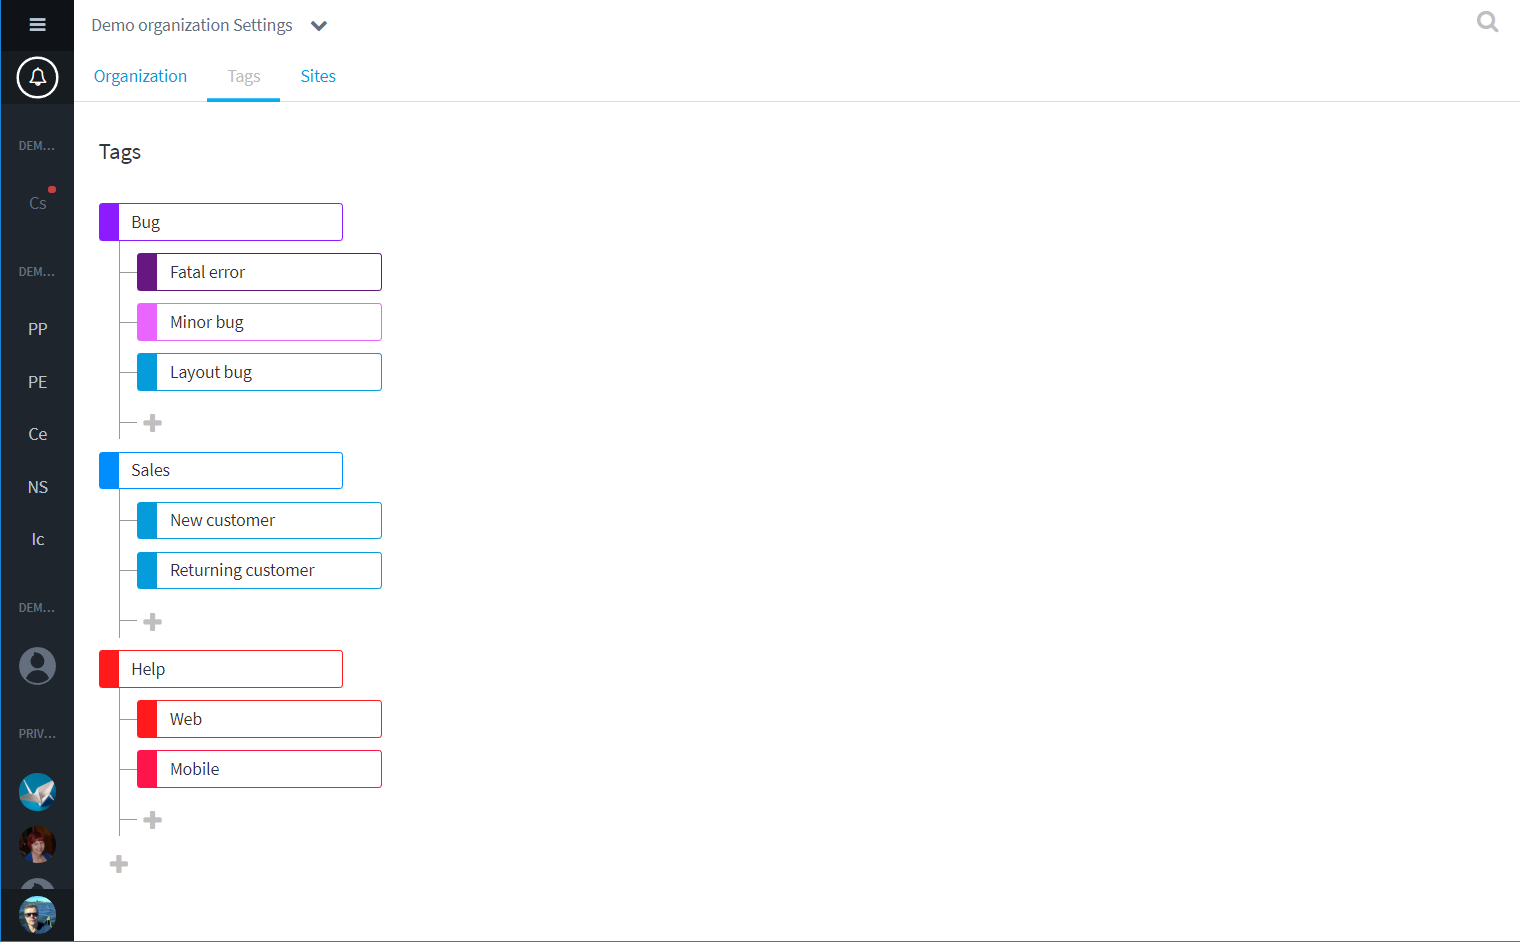
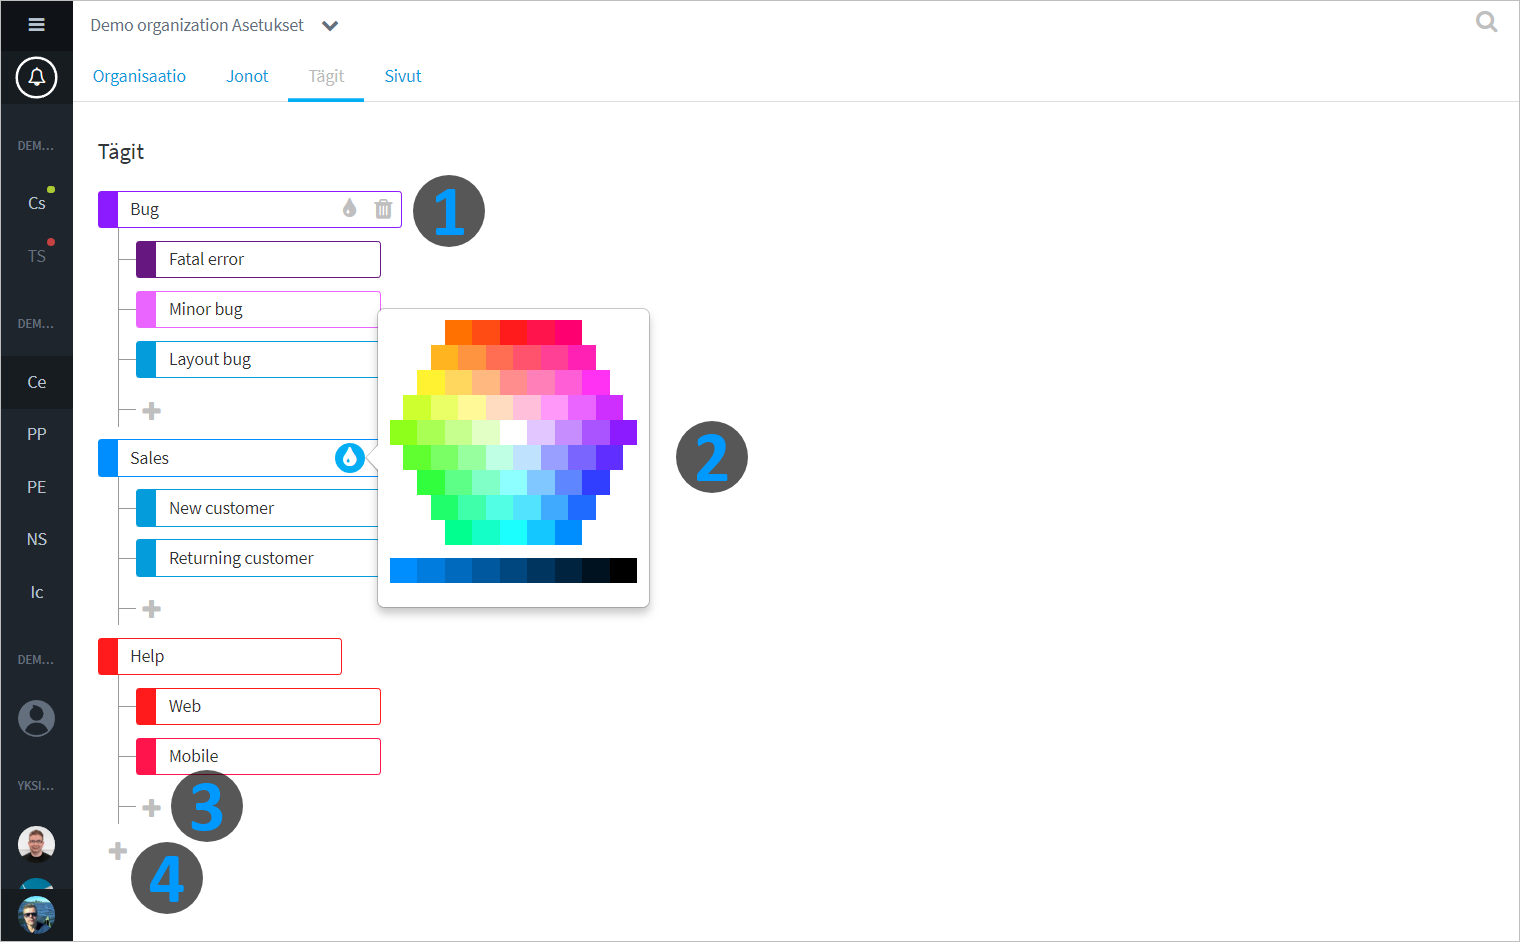
GitBook: [master] 4 pages and 6 assets modified

diff --git a/julkiset-ryhmaekeskustelut.md b/julkiset-ryhmaekeskustelut.md
@@ -28,7 +28,7 @@ Moderointityökalut tulevat esille kun hiiren kursorin vie kommentin päälle.  
     <tr>
       <td style="text-align:left">
         <img src=".gitbook/assets/mod1.png" alt/>Piilota viesti</td>
-      <td style="text-align:left"></td>
+      <td style="text-align:left">-</td>
       <td style="text-align:left">Piilota kyseinen viesti muilta vierailta</td>
     </tr>
     <tr>
@@ -39,8 +39,8 @@ Moderointityökalut tulevat esille kun hiiren kursorin vie kommentin päälle.  
     </tr>
     <tr>
       <td style="text-align:left">
-        <img src=".gitbook/assets/mod3.png" alt/>Vaienna käyttäjä joksikin aikaa</td>
-      <td style="text-align:left"></td>
+        <img src=".gitbook/assets/mod3.png" alt/>Vaienna käyttäjä x ajaksi</td>
+      <td style="text-align:left">-</td>
       <td style="text-align:left">Käyttäjä hiljennetään valituksi ajaksi
         <br />(tämän jälkeen hän saa taas kirjoittaa)</td>
     </tr>
@@ -77,6 +77,8 @@ Klikkaa kanavan nimeä yläpalkissa nähdäksesi kanavavalikko.
 | Poista automaattinen viestien piilotus | Uusien käyttäjien viestit näytetään automaattisesti.  |
 | Sulje kanava | Kanava ja keskustelu suljetaan |
 
+
+
 ## Kanavan asetukset
 
 Klikkaa kanavan nimeä ja valitse listalta Kanavan asetukset.
@@ -92,4 +94,8 @@ Klikkaa kanavan nimeä ja valitse listalta Kanavan asetukset.
 Julkinen upotettava ryhmäkeskustelukanava voidaan ajastaa asiakasjonon tavoin.
 
 ![](.gitbook/assets/channel-settings-3.png)
+
+### OHJE JA ESIMERKKI RYHMÄKESKUSTELUN SULKEMISESTA
+
+
 

diff --git a/organisaatio/jonojen-hallinta.md b/organisaatio/jonojen-hallinta.md
@@ -1,8 +1,41 @@
+---
+description: 'Organisaatioasetukset: jonojen hallinta'
+---
+
 # Jonojen hallinta
+
+## Jono-agenttien hallinta
+
+![](../.gitbook/assets/organization-members.png)
+
+## Jonot
+
+Jonot-välilehdellä voit asettaa ja poistaa agenteilla jononkäsittelyoikeuksia.
 
 ![](../.gitbook/assets/organization-queues.png)
 
+## Merkintöjen \(tagit\) hallinta
+
+Tagit ovat helppo ja nopea tapa agenteille luokitella asiakaskeskusteluja.
+
+Organisaation operaattorit voivat lisätä, muokata ja poistaa tageja.
+
 ![](../.gitbook/assets/organization-tags.png)
+
+1. Klikkaa tagin nimeä muokatakseen nimeä tai poistaaksesi se.
+2. Klikkaa maalikuvaketta vaihtaaksesi tagin väri. Värit ovat hyvä tapa erottaa eri kategorioiden tagit.
+3. Lisää kategoriaan alimerkintä.
+4. Lisää ylimmän luokan merkintä \(kategoria\).
+
+## Sites
+
+Sites-välilehdellä voidaan muokata asiakaspalvelu-chattien ja julkisten ryhmäkeskustelujen tekstejä, tyylejä ja asetuksia.
+
+{% hint style="info" %}
+Sites-konfiguraatiot ovat edistyneen käyttäjän ominaisuuksia. Pyydä Ninchatin henkilöstön tehdä muutokset, mikäli et itse osaa.
+{% endhint %}
+
+![](../.gitbook/assets/organization-sites.png)
 
 ![](../.gitbook/assets/organization-sites-1.png)
 

diff --git a/asiakas-jonot-ja-keskustelut/README.md b/asiakas-jonot-ja-keskustelut/README.md
@@ -6,7 +6,7 @@ Jonon käsittelijöiden lisäämisestä ja hallinnoinnista kerrotaan Organisaati
 
 {% page-ref page="../organisaatio/" %}
 
-## Jonosta poimiminen
+## Asiakkaan nappaaminen jonosta
 
 ![](../.gitbook/assets/queue%20%281%29.png)
 
@@ -85,7 +85,7 @@ Overall stuff from starting, chatting and ending audiences.
 
 ### Valmisviestin luominen
 
-{% page-ref page="../kayttajatilin-luominen/" %}
+{% page-ref page="../kayttajatilin-luominen/kayttajaasetukset.md" %}
 
 ### Valmisviestin käyttäminen
 

diff --git a/organisaatio/uuden-kayttajan-lisaaminen.md b/organisaatio/uuden-kayttajan-lisaaminen.md
@@ -49,7 +49,7 @@ Kanavakutsulinkit ovat voimassa 14 vuorokautta niiden luomishetkestä. Tämän j
 
 ### Käyttäjien hallinta organisaatiossa
 
-![](../.gitbook/assets/organization-members%20%281%29.png)
+![](../.gitbook/assets/organization-members%20%282%29.png)
 
 ![](../.gitbook/assets/organization-member.png)
 
